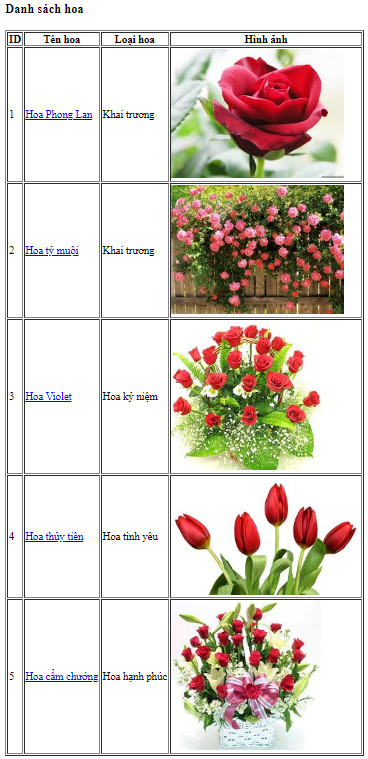
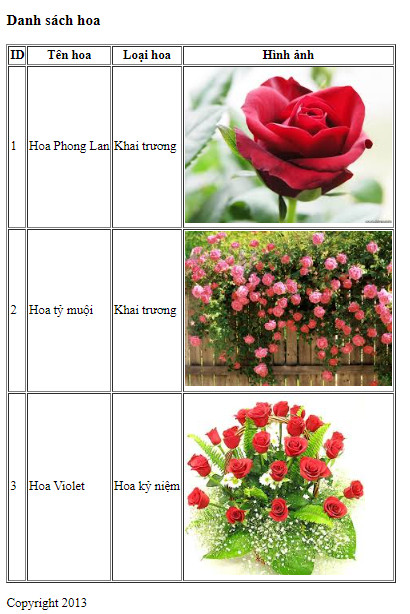
x

diff --git a/index2.html b/index2.html
@@ -21,37 +21,25 @@
 			<tbody>
 				<tr>
 					<td>1</td>
-					<td><a href="#" title="Hoa Phong Lan">Hoa Phong Lan</a></td>
+					<td>Hoa Phong Lan</td>
 					<td>Khai trương</td>
 					<td><img src="images/hoa1.jpg" alt="hoa1.jpg" /></td>
 				</tr>
 				<tr>
 					<td>2</td>
-					<td><a href="#" title="Hoa tỷ muội">Hoa tỷ muội</a></td>
+					<td>Hoa tỷ muội</td>
 					<td>Khai trương</td>
 					<td><img src="images/hoa2.jpg" alt="hoa2.jpg" /></td>
 				</tr>
 				<tr>
 					<td>3</td>
-					<td><a href="#" title="Hoa Violet">Hoa Violet</a></td>
+					<td>Hoa Violet</td>
 					<td>Hoa kỷ niệm</td>
 					<td><img src="images/hoa3.jpg" alt="hoa3.jpg" /></td>
 				</tr>
-				<tr>
-					<td>4</td>
-					<td><a href="#" title="Hoa thủy tiên">Hoa thủy tiên</a></td>
-					<td>Hoa tình yêu</td>
-					<td><img src="images/hoa4.jpg" alt="hoa4.jpg" /></td>
-				</tr>
-				<tr>
-					<td>5</td>
-					<td><a href="#" title="Hoa cẩm chướng">Hoa cẩm chướng</a></td>
-					<td>Hoa hạnh phúc</td>
-					<td><img src="images/hoa5.jpg" alt="hoa5.jpg" /></td>
-				</tr>
 			</tbody>
 		</table>
-		<p>Copyright &copy; 2013 <a href="#" title="VinaTAB.EDU">VinaTAB.EDU</a></p>
+		<p>Copyright 2013</p>
 	</div>
 </body>
 

diff --git a/main.js b/main.js
@@ -16,17 +16,5 @@ const listHoa = [
         tenHoa: 'Hoa Violet',
         loaiHoa: 'Hoa kỷ niệm',
         hinhAnh: 'hoa3.jpg'
-    },
-    {
-        id: 4,
-        tenHoa: 'Hoa thủy tiên',
-        loaiHoa: 'Hoa tình yêu',
-        hinhAnh: 'hoa4.jpg'
-    },
-    {
-        id: 5,
-        tenHoa: 'Hoa cẩm chướng',
-        loaiHoa: 'Hoa hạnh phúc',
-        hinhAnh: 'hoa5.jpg'
     }
 ]

diff --git a/index.html b/index.html
@@ -12,7 +12,7 @@
 		<table id="tbl" border="1px">
 
 		</table>
-		<p>Copyright &copy; 2013 <a href="#" title="VinaTAB.EDU">VinaTAB.EDU</a></p>
+		<p>Copyright 2013</p>
 	</div>
 	<script src="main.js"></script>
 </body>
